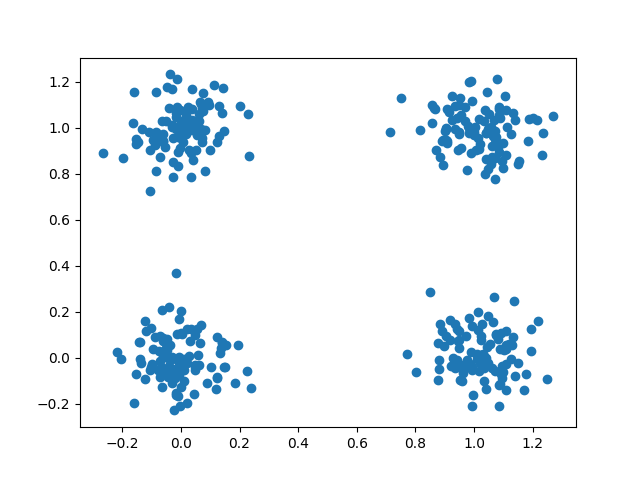
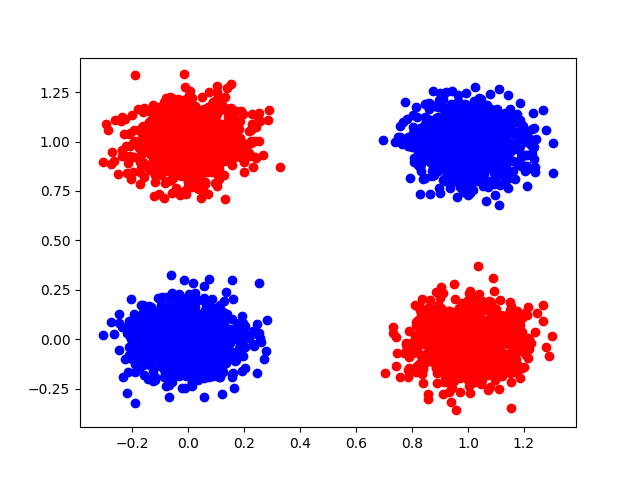
Data sepparation

diff --git a/multilayer_perceptron.py b/multilayer_perceptron.py
@@ -31,7 +31,7 @@ class MultilayerPerceptronClassifier():
                     neuron_out = w[:-1].T.dot(out[r - 1][i]) + w[-1]
                     v[k] = neuron_out
                 v_f = list(map(self.activation, v[:-1]))
-                out[r][i] = v_f<
+                out[r][i] = v_f
             preds.append(v_f)  # Last v_f is the output of the last neurons
         return preds
 
@@ -41,14 +41,7 @@ class MultilayerPerceptronClassifier():
             self.backpropagation()
             self.update_weights(lr, a)
             cost = self.print_cost()
-            """ if self.prev_cost is None:
-                self.prev_cost = cost
-            elif self.prev_cost - cost == 0 or cost > self.prev_cost:
-                break
-            else:
-                self.prev_cost = cost """
             print(cost, e)
-
 
     def forward_pass(self):
         for i in range(self.N):
@@ -109,16 +102,6 @@ class MultilayerPerceptronClassifier():
         plt.pause(0.0001)
         plt.clf()
         plt.plot()
-
-    def update_weights(self, lr, a):
-        """ Gradient decent with momentum """
-        for r in range(0, self.L - 1):
-            for j in range(0, self.net_shape[r + 1]):
-                delta = self.deltas[r][:, j]
-                outputs = self.net_outf[r - 1]
-                w_change = (a*self.prev_weights[r][j]) - lr * np.sum(delta @ outputs)
-                self.prev_weights[r][j] = w_change # Store current change and use it as momentum next iteration.
-                self.weights[r][j] = self.weights[r][j] + w_change
 
     def activation(self, x, type="sigmoid"):
         if type == "sigmoid":
@@ -190,12 +173,12 @@ def get_data(N):
     x1_2 = np.random.multivariate_normal(m1_2, cov, N)
     x2_1 = np.random.multivariate_normal(m2_1, cov, N)
     x2_2 = np.random.multivariate_normal(m2_2, cov, N)
+    x1 = np.concatenate((x1_1,x1_2))
+    x2 = np.concatenate((x2_1, x2_2))
+    plt.scatter(x1[:, 0], x1[:, 1], c='b')
+    plt.scatter(x2[:, 0], x2[:, 1], c='r')
+    plt.savefig("data.png")
 
-    """ x1_1 = (x1_1 - np.min(x1_1)) / (np.max(x1_1)- np.min(x1_1))
-    x1_2 = (x1_1 - np.min(x1_1)) / (np.max(x1_1)- np.min(x1_1))
-    x2_1 = (x1_1 - np.min(x1_1)) / (np.max(x1_1)- np.min(x1_1))
-    x2_2 = (x1_1 - np.min(x1_1)) / (np.max(x1_1)- np.min(x1_1))
-    """
     y1 = np.zeros(len(x1_1) + len(x1_2))
     y2 = np.ones(len(x2_1) + len(x2_2))
 
@@ -235,27 +218,9 @@ def plot_boundaries(model, X):
     plt.savefig("Contour3.png")
 
 
-def plot_decision_lines(model, X):
-    min1, max1 = X[:, 0].min() - 1, X[:, 0].max() + 1
-    min2, max2 = X[:, 1].min() - 1, X[:, 1].max() + 1
-    # define the x and y scale
-    x1grid = np.arange(min1, max1, 0.01)
-    x2grid = np.arange(min2, max2, 0.01)
-    # create all of the lines and rows of the grid
-    xx, _ = np.meshgrid(x1grid, x2grid)
-    weights = []
-    plt.scatter(X[:, 0], X[:, 1])
-    for w in sum(model.weights, []):
-        # print(w)
-        yy = (-(w[0] * xx) - w[2]) / w[1]
-        plt.plot(xx, yy)
-    plt.savefig("lines.png")
-
-
 if __name__ == "__main__":
     X, y = get_data(1000)
-    # X = np.c_[X, np.ones(len(X))]
-    # y = np.c_[y, np.ones(len(y))]
+
     mlp = MultilayerPerceptronClassifier(X, y)
     mlp.train(lr=0.0001, a=0.2, epochs=100)
     w = mlp.weights
@@ -265,10 +230,7 @@ if __name__ == "__main__":
     y_hat = [round(x[0]) for x in preds]
     
     print(np.sum(y==y_hat)/len(preds))
-    #for i in range(len(preds)):
-    #   print(round(preds[i][0]), y[i])
 
-    #plot_decision_lines(mlp, X)
     plot_boundaries(mlp, X)
 
 
